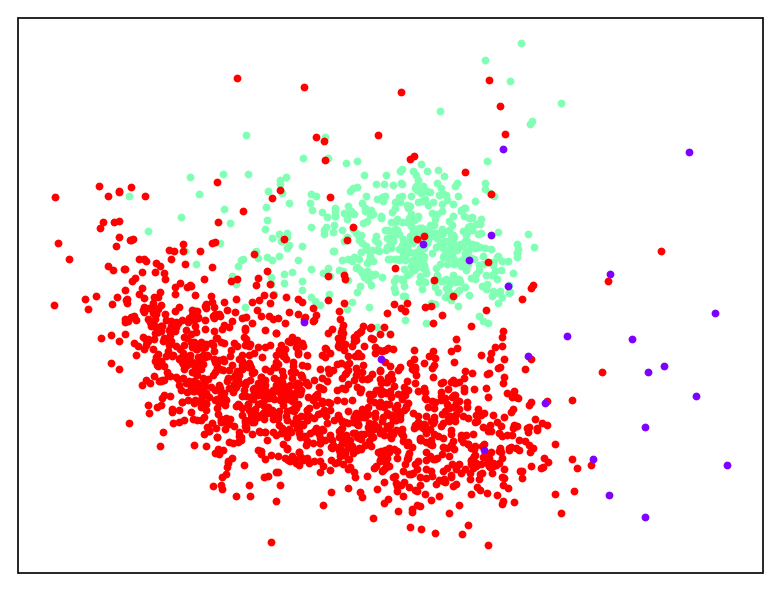
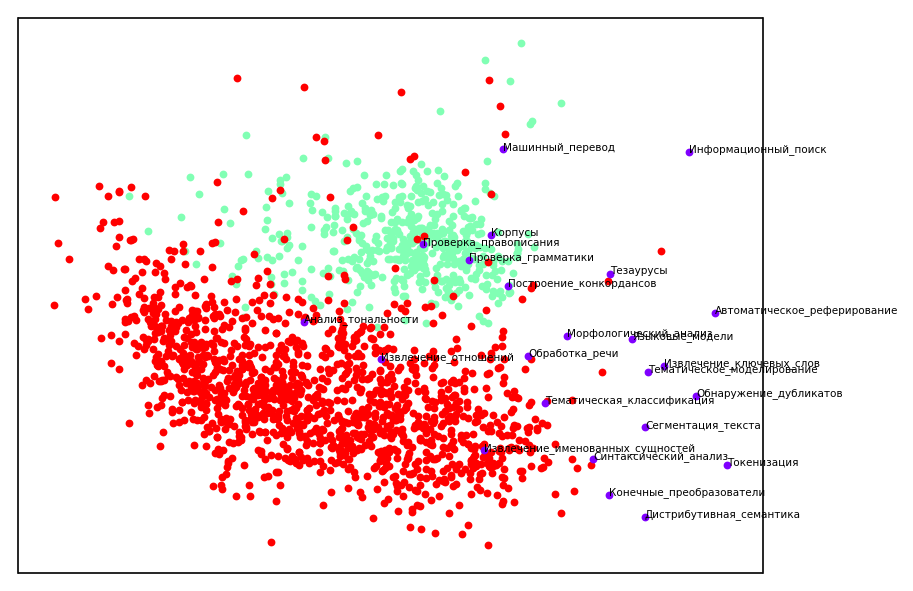
annotated plots

diff --git a/code/plot_texts.py b/code/plot_texts.py
@@ -51,10 +51,11 @@ def visualize(words, matrix, classes, method, fname):
 
     for word, x, y, color in tqdm(zip(words, xpositions, ypositions, class2color), desc='Plotting with {}'.format(method)):
         plot.scatter(x, y, 30, marker='.', color=color)
-        lemma = word.replace('TASK::', '')
-        mid = len(lemma) / 2
-        mid *= 4  # TODO Should really think about how to adapt this variable to the real plot size
-        # plot.annotate(lemma, xy=(x, y), size=5, color='black')
+        if 'TASK::' in word:
+            task_name = word.replace('TASK::', '')
+            mid = len(task_name) / 2
+            mid *= 4  # TODO Should really think about how to adapt this variable to the real plot size
+            plot.annotate(task_name, xy=(x, y), size=5, color='black')
 
     plot.tick_params(axis='x', which='both', bottom=False, top=False, labelbottom=False)
     plot.tick_params(axis='y', which='both', left=False, right=False, labelleft=False)
